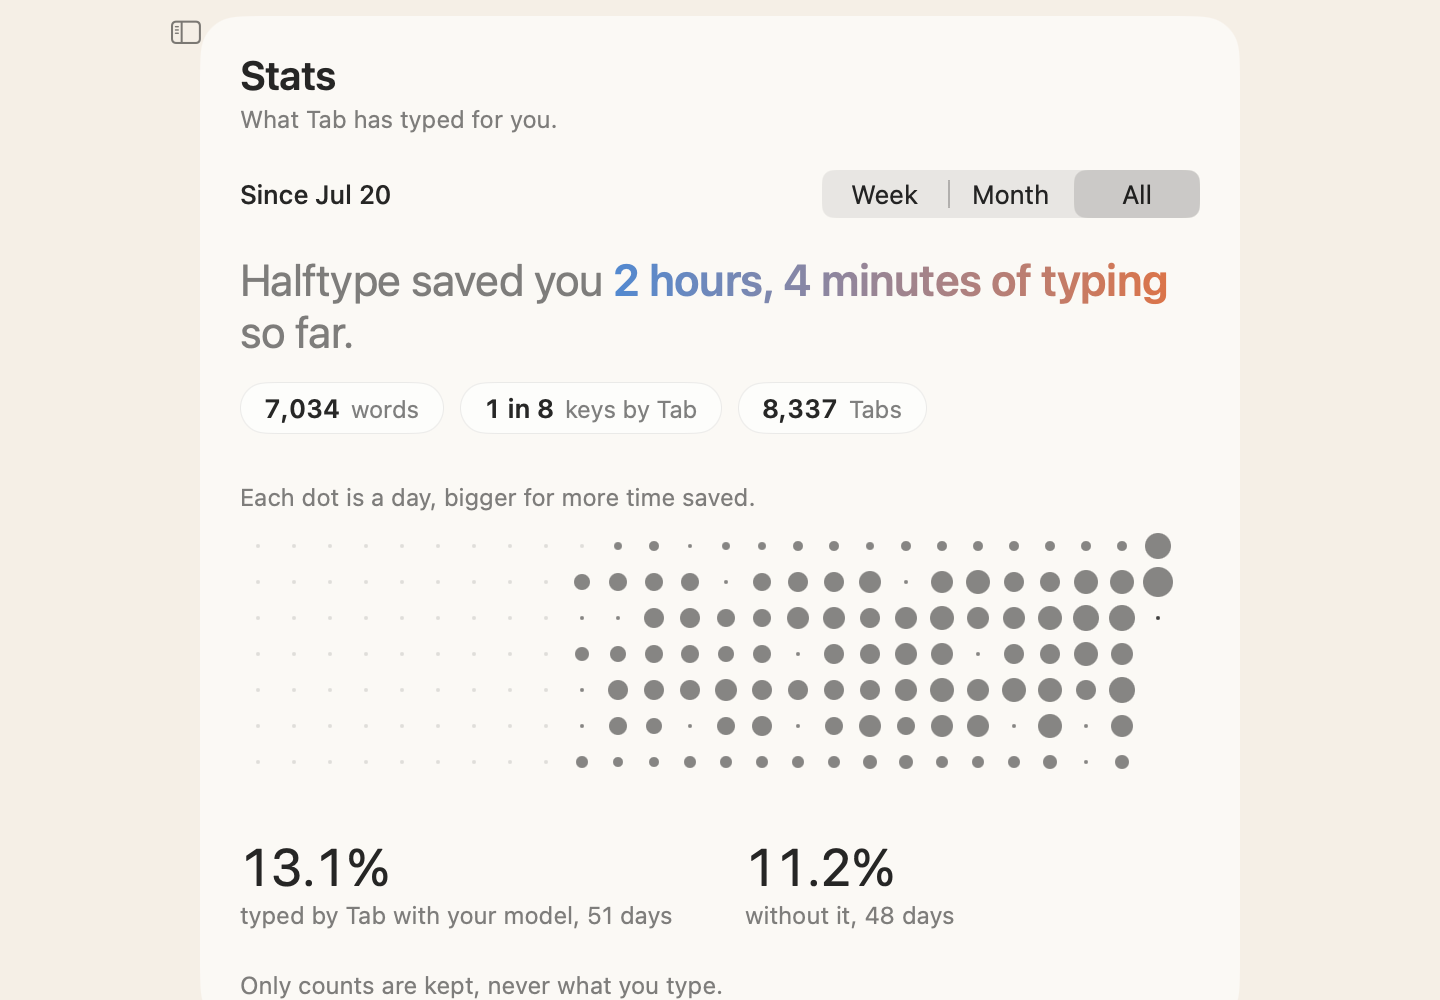
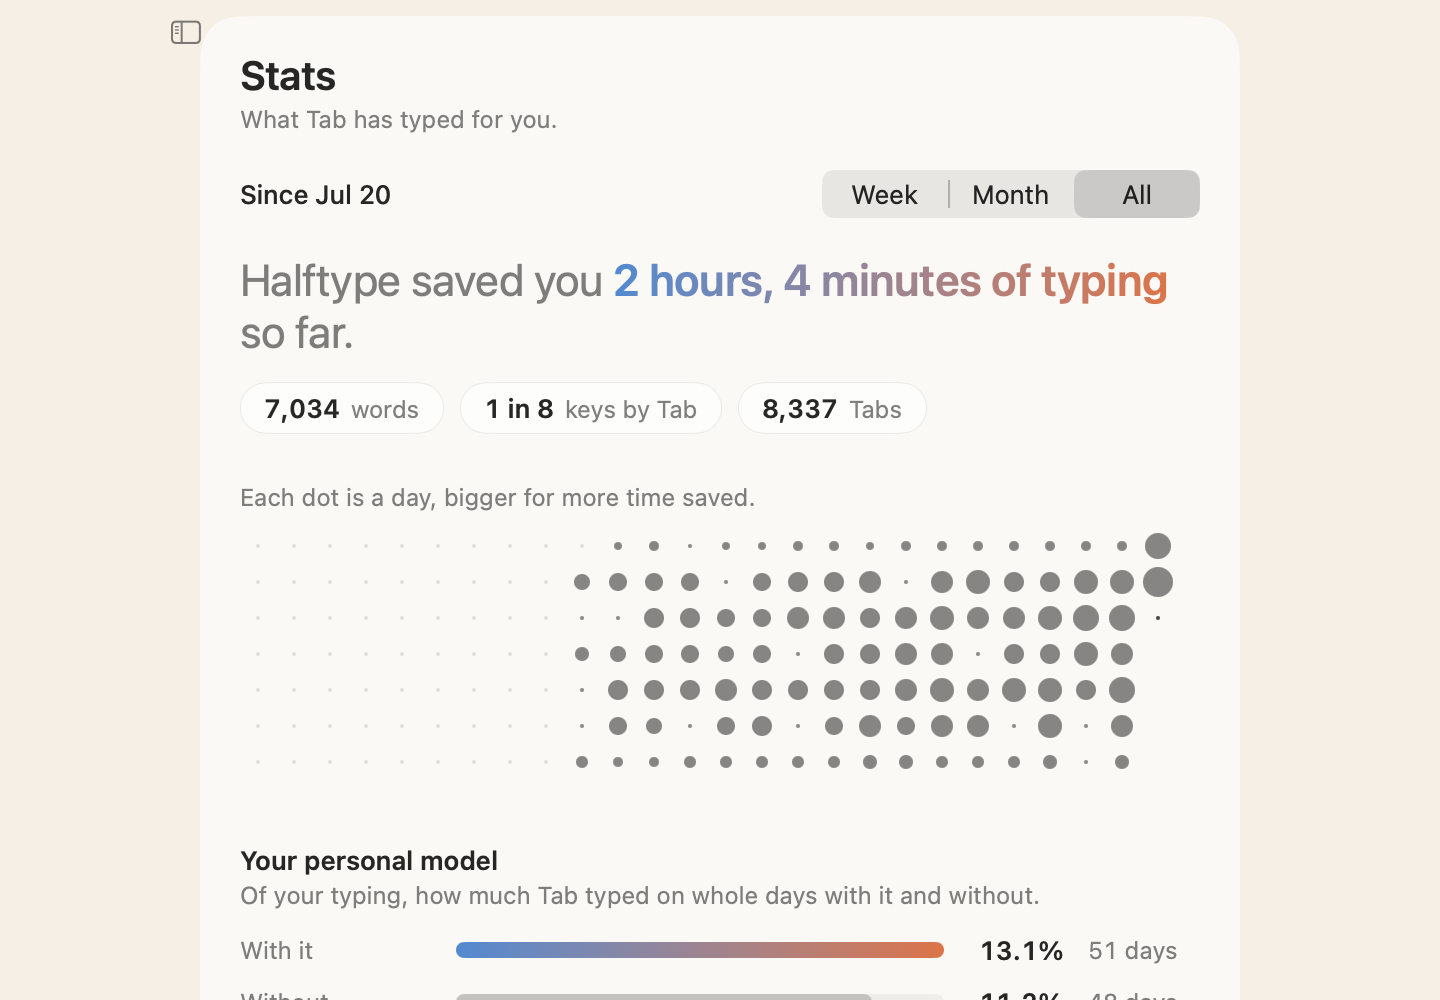
Stats: the personal model comparison gets a heading and a bar per row (glass with it, grey without, from zero); one shared glass gradient; Text + Text replaced by interpolation (deprecated in macOS 26)

Changed region(s): [[0.1562, 0.837, 0.7188, 1.0], [0.6562, 0.992, 0.8125, 1.0], [0.6875, 0.93, 0.8125, 0.961]]

diff --git a/Sources/HalftypeApp/Window.swift b/Sources/HalftypeApp/Window.swift
@@ -554,14 +554,14 @@ struct StatsPage: View {
     /// "Halftype saved you 21 minutes of typing this week.", the time in the icon's glass.
     private func headline(_ day: Tally.Day, _ period: Tally.Period?) -> some View {
         let end = period == nil ? " so far." : back > 0 ? "." : span == .week ? " this week." : " this month."
-        let sentence = day.tabs == 0 ? Text("Nothing typed by Tab" + end).foregroundStyle(.secondary)
-            : Text("Halftype saved you ").foregroundStyle(.secondary)
-            + Text(Self.time(day.minutesSaved) + " of typing").fontWeight(.semibold)
-                .foregroundStyle(LinearGradient(colors: [Color(red: 0.36, green: 0.58, blue: 0.84), Color(red: 0.88, green: 0.50, blue: 0.32)], startPoint: .leading, endPoint: .trailing))
-            + Text(end).foregroundStyle(.secondary)
-        return sentence.font(.system(size: 22)).fixedSize(horizontal: false, vertical: true)
+        let time = Text(Self.time(day.minutesSaved) + " of typing").fontWeight(.semibold).foregroundStyle(StatsPage.glass)
+        let sentence = day.tabs == 0 ? Text("Nothing typed by Tab" + end) : Text("Halftype saved you \(time)\(end)")
+        return sentence.foregroundStyle(.secondary).font(.system(size: 22)).fixedSize(horizontal: false, vertical: true)
             .help("Keys Tab typed for you, at 40 words a minute (200 keys).")
     }
+
+    /// The icon's glass, pale blue to peach, darkened to read on cream.
+    static let glass = LinearGradient(colors: [Color(red: 0.36, green: 0.58, blue: 0.84), Color(red: 0.88, green: 0.50, blue: 0.32)], startPoint: .leading, endPoint: .trailing)
 
     /// "21 minutes", "1 hour, 12 minutes", or under a minute.
     static func time(_ minutes: Double) -> String {
@@ -637,28 +637,54 @@ struct StatsPage: View {
         .accessibilityLabel("Time saved per day for the last 26 weeks")
     }
 
-    /// Days with the personal model against days without, once there are both.
+    /// Days with the personal model against days without, once there are both, and each version's days once more than one has run a whole
+    /// day (which checkpoint to keep; with Personal Model On there are no days without). One bar each, from zero, so the gap is true to size.
     @ViewBuilder private var personal: some View {
         let with = app.tally.sum(personal: true), without = app.tally.sum(personal: false)
-        if let a = with.sum.byTab, let b = without.sum.byTab {
-            HStack(alignment: .lastTextBaseline, spacing: 36) {
-                Figure(value: a.formatted(.percent.precision(.fractionLength(1))), label: "typed by Tab with your model, \(with.count) \(with.count == 1 ? "day" : "days")")
-                Figure(value: b.formatted(.percent.precision(.fractionLength(1))), label: "without it, \(without.count) \(without.count == 1 ? "day" : "days")")
-            }
-            .padding(.top, 28)
+        let both = with.sum.byTab.flatMap { a in without.sum.byTab.map { b in [Meter(label: "With it", share: a, days: with.count, glass: true), Meter(label: "Without", share: b, days: without.count, glass: false)] } } ?? []
+        let versions = app.tally.adapters.count < 2 ? [] : app.tally.adapters.compactMap { name -> Meter? in
+            let one = app.tally.sum(personal: true, adapter: name)
+            return one.sum.byTab.map { Meter(label: "\(AdapterInfo.title(name: name)) version", share: $0, days: one.count, glass: true) }
         }
-        // Each version's days, once more than one has run a whole day: which checkpoint to keep. With Personal Model On there are no days without.
-        if app.tally.adapters.count > 1 {
-            HStack(alignment: .lastTextBaseline, spacing: 36) {
-                ForEach(app.tally.adapters, id: \.self) { name in
-                    let one = app.tally.sum(personal: true, adapter: name)
-                    if let share = one.sum.byTab {
-                        Figure(value: share.formatted(.percent.precision(.fractionLength(1))), label: "\(AdapterInfo.title(name: name)) version, \(one.count) \(one.count == 1 ? "day" : "days")")
-                    }
+        let rows = both + versions
+        if let most = rows.map(\.share).max() {
+            VStack(alignment: .leading, spacing: 10) {
+                VStack(alignment: .leading, spacing: 2) {
+                    Text("Your personal model").font(.system(size: 13, weight: .semibold))
+                    Text("Of your typing, how much Tab typed on whole days with it and without.").font(.system(size: 12)).foregroundStyle(.secondary)
+                }
+                .padding(.bottom, 2)
+                ForEach(rows, id: \.label) { $0.scaled(to: most) }
+            }
+            .padding(.top, 32)
+        }
+    }
+}
+
+/// One row of the personal model's comparison: its share of typing by Tab as a bar, the icon's glass for the model, grey without it.
+private struct Meter: View {
+    let label: String
+    let share: Double
+    let days: Int
+    let glass: Bool
+    var most = 1.0
+    func scaled(to most: Double) -> Meter { var meter = self; meter.most = most; return meter }
+    var body: some View {
+        HStack(spacing: 12) {
+            Text(label).font(.system(size: 12)).foregroundStyle(.secondary).frame(width: 96, alignment: .leading)
+            GeometryReader { space in
+                ZStack(alignment: .leading) {
+                    Capsule().fill(Color.primary.opacity(0.05))
+                    Capsule().fill(glass ? AnyShapeStyle(StatsPage.glass)
+                                         : AnyShapeStyle(Color.primary.opacity(0.22)))
+                        .frame(width: max(8, space.size.width * share / max(most, 0.0001)))
                 }
             }
-            .padding(.top, 16)
+            .frame(height: 8)
+            Text(share.formatted(.percent.precision(.fractionLength(1)))).font(.system(size: 13, weight: .semibold)).monospacedDigit().frame(width: 48, alignment: .trailing)
+            Text("\(days) \(days == 1 ? "day" : "days")").font(.system(size: 12)).foregroundStyle(.secondary).monospacedDigit().frame(width: 56, alignment: .leading)
         }
+        .accessibilityElement(children: .combine)
     }
 }
 
@@ -675,17 +701,6 @@ private struct Tag: View {
         .font(.system(size: 11)).monospacedDigit().foregroundStyle(.white)
         .padding(.horizontal, 9).padding(.vertical, 6)
         .background(Color(white: 0.11), in: RoundedRectangle(cornerRadius: 8))
-    }
-}
-
-private struct Figure: View {
-    let value: String
-    let label: String
-    var body: some View {
-        VStack(alignment: .leading, spacing: 2) {
-            Text(value).font(.system(size: 26)).monospacedDigit().fixedSize()
-            Text(label).font(.system(size: 12)).foregroundStyle(.secondary)
-        }
     }
 }
 

diff --git a/docs/design/stats/README.md b/docs/design/stats/README.md
@@ -51,3 +51,5 @@ John: "C looks good but there's so many horizontal lines everywhere? Show me som
 - `round5/options.png`: frozen screenshot.
 
 Recommendation: C (the quiet line). Pick: E (John: "E visually does differentiate everything, which i appreciate"), with two fixes: the chips are faint white glass with a hairline so they don't read as the Week / Month / All control, and each explains itself on hover. Time saved uses a fixed 40 wpm (200 keys a minute) and words are letters ÷ 5 for now: measuring each user's speed and counting Korean words are open. The chart and the All dots now show time saved, not Tabs. `built/round5-stats-week.png`, `-month`, `-all`: the shipped page, from `HALFTYPE_SHOTS=<dir> swift test --disable-keychain --filter WindowShots/stats` on 2026-11-10 (sample data).
+
+Then the personal model comparison got a heading ("Your personal model", John: "what is this?") and one bar per row from zero, glass for with it and grey without: `built/round5-personal-model.png`.
